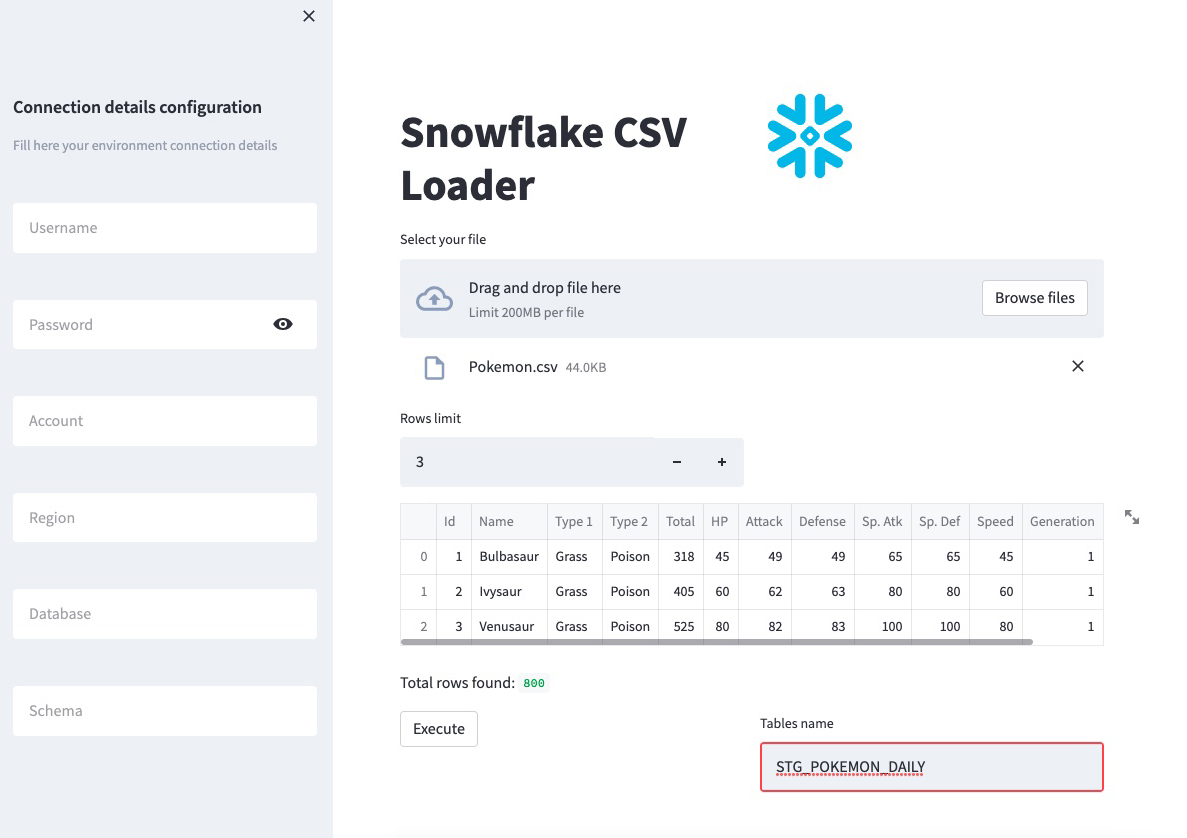
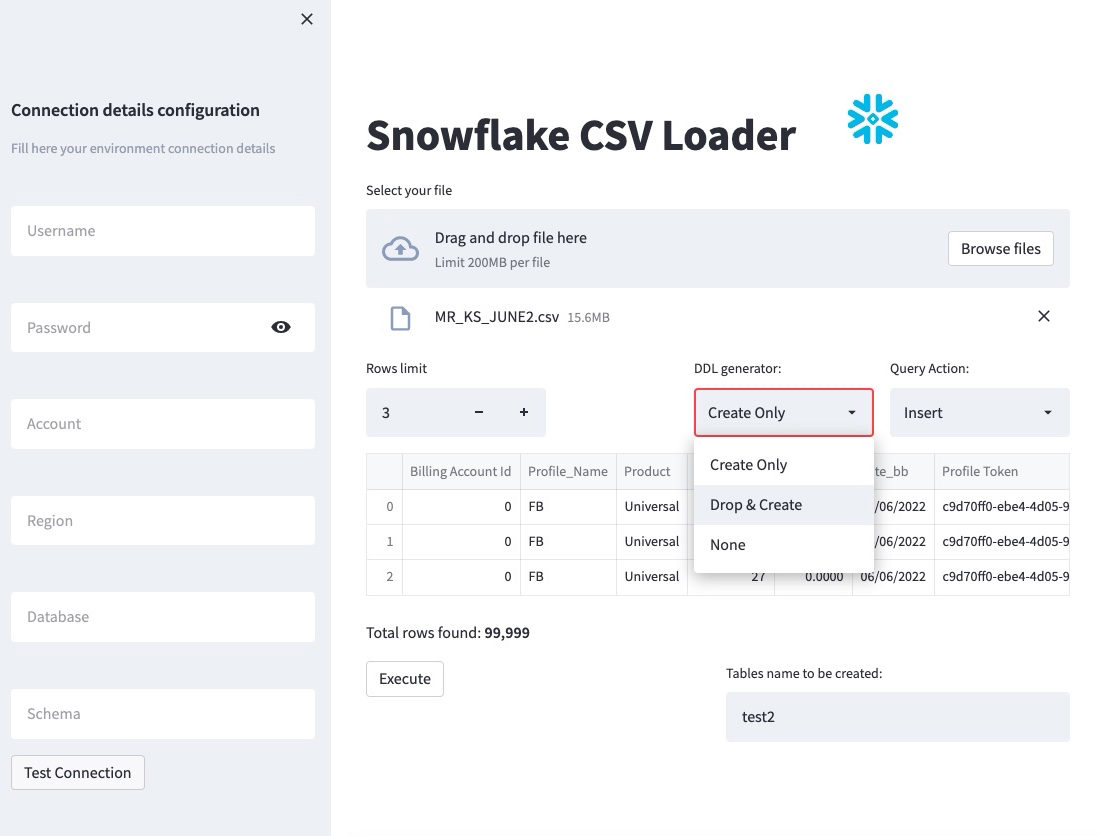
Update README.md

diff --git a/app/main.py b/app/main.py
@@ -3,6 +3,7 @@ import streamlit as st
 import pandas as pd
 import snowflake.connector
 
+
 def snowflake_connector(user, password, account, region, database, schema):
     snowflakeClient = snowflake.connector.connect(
         user = user,
@@ -14,38 +15,47 @@ def snowflake_connector(user, password, account, region, database, schema):
         )
     return snowflakeClient
 
+# ===================================================== Streamlit Configuration
+st.set_page_config(
+     page_title="CSV Loader",
+     page_icon="🧊",
+     layout="centered",
+     initial_sidebar_state="expanded",
+     menu_items={
+         'Get Help': 'https://github.com/Igalem/streaml-it',
+         'Report a bug': "https://github.com/Igalem/streaml-it",
+         'About': "# CSV Loader to Snowflake *\n*Use this app to load your CSV file into Snowflake DB.*"
+     }
+ )
+
 header = st.container()
 body = st.container()
 
 st.sidebar.subheader('Connection details configuration')
 st.sidebar.caption('Fill here your environment connection details')
-
 st_user = st.sidebar.text_input('', placeholder='Username')
 st_password  = st.sidebar.text_input('', placeholder='Password', type='password')
 st_account  = st.sidebar.text_input('', placeholder='Account')
 st_region  = st.sidebar.text_input('', placeholder='Region')
 st_db  = st.sidebar.text_input('', placeholder='Database')
 st_schema  = st.sidebar.text_input('', placeholder='Schema')
+
 st_test  = st.sidebar.button('Test Connection')
 st.sidebar.title('')
 st.sidebar.caption('Created by: Igal Emoona (version 1.0)')
 
 
-
-
 with header:
-    col1, col2, = st.columns(2)
+    col1, col2, = st.columns([10,5])
 
     with col1:
         st.title("Snowflake CSV Loader ")
 
     with col2:
-        st.image(
-    "https://docs.snowflake.com/en/_images/logo-snowflake-sans-text.png",
-    width=100
-    )
+        st.image("https://docs.snowflake.com/en/_images/logo-snowflake-sans-text.png",width=60)
     
-    uploaded_file = st.file_uploader("Select your file")
+    ph_uploadfile = st.empty()
+    uploaded_file = ph_uploadfile.file_uploader("Select your file")
 
 if st_test:
     try:
@@ -57,34 +67,43 @@ if st_test:
                             schema = st_schema
                             ).cursor()
         snfClient.close()
-    except:
-        st.error(body='Unable to connect into Snowflake account')
-        print('Unable to connect into Snowflake account')
-        exit()
+    except snowflake.connector.errors.ProgrammingError as e:
+                    snf_error = 'Error {0} ({1}): \n{2} ({3})'.format(e.errno, e.sqlstate, e.msg, e.sfqid)
+                    st.error(body=snf_error)
+                    print(e.errno, e.msg, e.raw_msg, e.sqlstate, e.telemetry_msg)
+                    exit()
         
     st.success(body='Successfuly connected!')
     
     
 
 with body:
-
-    
     if uploaded_file is not None:
-        col1, col2, = st.columns(2)
+        col1, col, col2, col3= st.columns([3,2, 3,3])
 
         with col1:
             rows = st.number_input(label='Rows limit',value=3, min_value=1)
+        
+        with col2:
+            ddl = st.selectbox('DDL generator:',
+                                ('Create Only', 'Drop & Create', 'None'))
+        
+        with col3:
+            action = st.selectbox('Query Action:',
+                                ('Insert', 'Truncate & Insert'))
             
 
-        df = pd.read_csv(uploaded_file,encoding= 'unicode_escape')
+        df = pd.read_csv(uploaded_file,encoding= 'unicode_escape', low_memory=False)
         st.dataframe(data=df.head(int(rows)))
-        st.write('Total rows found:', len(df))
+        st.write('Total rows found:', '**{:,}**'.format(len(df)))
         col1, col2, = st.columns(2)
         with col1:
-            execute = st.button(label='Execute')
+            #execute = st.button(label='Execute')
+            placeholder = st.empty()
+            execute = placeholder.button('Execute')
         
         with col2:    
-            table = st.text_input(label='Tables name')
+            table = st.text_input(label='Tables name to be created:')
 
         types_map={'int64' : 'int',
                     'O' : 'varchar(255)',
@@ -92,11 +111,11 @@ with body:
                     'float64' : 'float'
                     }
 
-        char_to_replace = ['.', ')', '(', ' ', '^', '$', '#', '!', '@', '%', '&', '*', '-', '+', '=']
+        char_to_replace = ['.', ')', '(', ' ', '^', '$', '#', '!', '@', '%', '&', '*', '-', '+', '=','ï»']
 
         data = df.values.tolist()
         for i, row in enumerate(data):
-            data[i] = [str(r) for r in row]
+            data[i] = [str(r).strip() for r in row]
 
         # Covert data to string values
         values = ''
@@ -111,6 +130,8 @@ with body:
                     cname+='_'
                 else:
                     cname+=s
+            if len(set(cname)) == 1:
+                cname+='Field' + str(i)
             headers[i] = cname
             cname=''
 
@@ -127,52 +148,105 @@ with body:
             elif col_type == 'float64':
                 col_types.append(types_map['float64'])
 
-        
         columns_sql = [col + ' ' + ty for col,ty in zip(headers,col_types)]
 
-        sqlCreatetable = '''Create table {table} ({columns_sql});'''.format(table=table, columns_sql=','.join(columns_sql))
-    
         
         if execute and table != '':
+            placeholder.empty()
+            st_progressbar = st.progress(0)
             try:
                 snfClient = snowflake_connector(user=st_user,
-                password = st_password,
-                account=st_account,
-                region = st_region,
-                database = st_db,
-                schema = st_schema).cursor()
-                snfClient.execute(sqlCreatetable)
-            except:
-                st.error(body='Unable to connect into Snowflake account')
-                print('Unable to connect into Snowflake account')
-                #sqlSnowflake.close()
-                exit()
+                    password = st_password,
+                    account=st_account,
+                    region = st_region,
+                    database = st_db,
+                    schema = st_schema).cursor()
+            except snowflake.connector.errors.ProgrammingError as e:
+                    snf_error = 'Error {0} ({1}): \n{2} ({3})'.format(e.errno, e.sqlstate, e.msg, e.sfqid)
+                    st.error(body=snf_error)
+                    print(e.errno, e.msg, e.raw_msg, e.sqlstate, e.telemetry_msg)
+                    exit()
+            st_progressbar.progress(0 + 10)            
 
-            st.code(body=sqlCreatetable)
+            if 'create' in ddl.lower():
+                if 'drop' in ddl.lower():
+                    try:
+                        print('--------- DROP TABLE ----------')
+                        sqlDroptable = '''Drop table {table};'''.format(table=table)
+                        snfClient.execute(sqlDroptable)
+                        print('SQL statement:\n', sqlDroptable)
+                        #st.code(body=sqlDroptable)
+                    except snowflake.connector.errors.ProgrammingError as e:
+                        snf_error = 'Error {0} ({1}): {2} ({3})'.format(e.errno, e.sqlstate, e.msg, e.sfqid)
+                        st.error(body=snf_error)
+                        print(snf_error)
+                        exit()
+                
+                try:
+                    print('--------- CREATE TABLE ----------')
+                    sqlCreatetable = '''Create table {table} ({columns_sql});'''.format(table=table, columns_sql=','.join(columns_sql))
+                    snfClient.execute(sqlCreatetable)
+                    print('SQL statement:\n', sqlCreatetable)
+                    #st.code(body=sqlCreatetable)
+                except snowflake.connector.errors.ProgrammingError as e:
+                    print('SQL statement:\n', sqlCreatetable)
+                    snf_error = 'Error {0} ({1}): \n{2} ({3})'.format(e.errno, e.sqlstate, e.msg, e.sfqid)
+                    st.error(body=snf_error)
+                    print(e.errno, e.msg, e.raw_msg, e.sqlstate, e.telemetry_msg)
+                    exit()
+            st_progressbar.progress(0 + 10)
+
+            if 'truncate' in action.lower():
+                try:
+                    print('--------- TRUNCATE TABLE ----------')
+                    sqlTrunctable = '''Truncate table {table};'''.format(table=table)
+                    snfClient.execute(sqlTrunctable)
+                    print('SQL statement:\n', sqlTrunctable)
+                    #st.code(body=sqlTrunctable)
+                except snowflake.connector.errors.ProgrammingError as e:
+                    snf_error = 'Error {0} ({1}): \n{2} ({3})'.format(e.errno, e.sqlstate, e.msg, e.sfqid)
+                    st.error(body=snf_error)
+                    print(e.errno, e.msg, e.raw_msg, e.sqlstate, e.telemetry_msg)
+                    exit()
+
+            st_progressbar.progress(0 + 10)
+
             fieldsCount = len(headers)
             valuesString=str('%s,' * fieldsCount)[:-1:]
+
+            print('--------- INSERT into TABLE ----------')
             sqlInsert="Insert into {table} Values({valuesString});".format(table=table, valuesString=valuesString)
-            print('mysql stmt: ---------------\n', sqlInsert)
-            st.code(body=sqlInsert)
+            print('SQL statement:\n', sqlInsert)
+            #st.code(body=sqlInsert)
 
             dataSize = len(data)
-            for i in range(1,dataSize,16000-1):
-                if i!=1:
-                    end=i*2
+            bar_percent = round((dataSize / 16000))
+            if bar_percent == 0:
+                add_to_bar = 65
+            else:
+                add_to_bar = 30
+            print('=================', dataSize, bar_percent)
+            for i in range(0,dataSize,16000):
+                if i!=0:
+                    end=i+16000
                 else:
                     end=16000
                 dataBlock = data[i:end]
-                print('------------', i)
+                
+                print('------------ Block range:', i, end, '=', end-i)
 
                 try:
+                    st_progressbar.progress(0 + add_to_bar)
                     snfClient.executemany(sqlInsert, dataBlock)
-                except:
-                    st.error(body='Unable to connect into Snowflake account')
-                    print('Unable to connect into Snowflake account')
-                    #sqlSnowflake.close()
+                except snowflake.connector.errors.ProgrammingError as e:
+                    snf_error = 'Error {0} ({1}): \n{2} ({3})'.format(e.errno, e.sqlstate, e.msg, e.sfqid)
+                    st.error(body=snf_error)
+                    print(e.errno, e.msg, e.raw_msg, e.sqlstate, e.telemetry_msg)
                     exit()
-            
-            st.success('Data loaded into Snowflake!')
-            st.balloons()
+                add_to_bar+=10
+            st_progressbar.progress(100)
+            st_progressbar.empty()
+            st.success('You file loaded into Snowflake!')
+            st.snow()
             execute=False
             snfClient.close()

diff --git a/app/cron.py b/app/cron.py
@@ -1,0 +1,72 @@
+import streamlit as st
+import os
+
+cron_tmpFile = '/tmp/crontmp.log'
+root_password = 'Qwe123!!'
+
+## Creating Cron Jobs listtemp file
+os.system("echo '{root_password}' | sudo -S crontab -u igale -l > {cron_tmpFile}".format(root_password=root_password, cron_tmpFile=cron_tmpFile))
+crontab = open(cron_tmpFile, 'r').readlines()
+
+st.session_state.crontab = crontab
+
+st.set_page_config(
+     page_title="CRONTAB Manager",
+     page_icon="🧊",
+     layout="wide",
+     initial_sidebar_state="collapsed",
+     menu_items={
+         'Get Help': 'https://www.extremelycoolapp.com/help',
+         'Report a bug': "https://www.extremelycoolapp.com/bug",
+         'About': "# This is a header. This is an *extremely* cool app!"
+     }
+ )
+
+add_selectbox = st.sidebar.checkbox(
+    "How would you like to be contacted?",
+    ("Email", "Home phone", "Mobile phone")
+)
+
+menu_cont = st.container
+with menu_cont():
+    st.subheader('CRONTAB Jobs')
+    col1, col2,col3 = st.columns([20,1,10])
+    with col1:
+        st.empty()
+
+    with col2:
+        st.button('Add')
+    with col3:
+        st.button('Delete')
+        
+for i, item in enumerate(crontab):
+    item_key = item.split(' ')
+    item_schedule = ' '.join(item_key[0:5])
+    item_mi = ' '.join(item_key[0])
+    item_hh = ' '.join(item_key[1])
+    item_day = ' '.join(item_key[2])
+    item_month = ' '.join(item_key[3])
+    item_week = ' '.join(item_key[4])
+    item_command = ' '.join(item_key[5:])
+    col1, col2,col3, col4, col5, col6 = st.columns([9,2.5,2.5,3.5,2.5,2])
+    with col1:
+        st.text_input(label = '', value=item_command, key='commad'+str(i))
+    
+    with col2:
+        st_mi = st.selectbox('', ('Every min', '10', '20', '30', '40', '50'), key='min' + str(i))
+    
+    with col3:
+        st_mi = st.selectbox('', ('Every hour', '0', '1', '2', '3', '4', '5', '6', '7', '8', '9',
+        '10', '11', '12', '13', '14', '15', '16', '17', '18', '19', '20', '21', '22', '23'), key='min' + str(i))
+    
+    with col4:
+        st_mi = st.selectbox('', ('Every days in month', '0', '1', '2', '3', '4', '5', '6', '7', '8', '9',
+        '10', '11', '12', '13', '14', '15', '16', '17', '18', '19', '20', '21', '22', '23'), key='dim' + str(i))
+    
+    with col5:
+        st_mi = st.selectbox('', ('Every month', '1', '2', '3', '4', '5', '6', '7', '8', '9',
+        '10', '11', '12'), key='mon' + str(i))
+    
+    with col6:
+        st_mi = st.selectbox('', ('Every day', 'Sunday', 'Monday', 'Tuesday', 'Wendsday', 'Thursday', 'Friday', 'Saturday'), key='day' + str(i))
+

diff --git a/README.md b/README.md
@@ -2,6 +2,10 @@
   <img src="_static/logo.png" height="250">
 </p>
 
+<p align="center" width="100%">
+  <img src="_static/snowflake_csv_loader.jpg" height="350">
+</p>
+
 # Streaml-it
 Streamlit applications project
 
